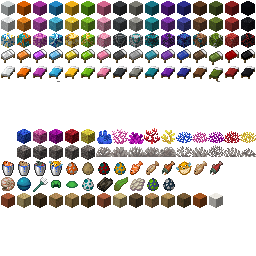
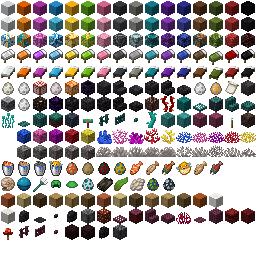
Update blocks to 1.16

Changed region(s): [[0.0, 0.3125, 1.0, 0.5], [0.25, 0.8125, 1.0, 0.9375], [0.0, 0.8125, 0.1875, 0.9375]]

diff --git a/README.md b/README.md
@@ -4,4 +4,4 @@ Updated [WolfieMario's Text Icon Resourcepack](http://imgur.com/a/oHvbX) to the 
 
 |Items     |Blocks    |
 |----------|----------|
-|Up to 1.16|Up to 1.15|
+|Up to 1.16|Up to 1.16|
